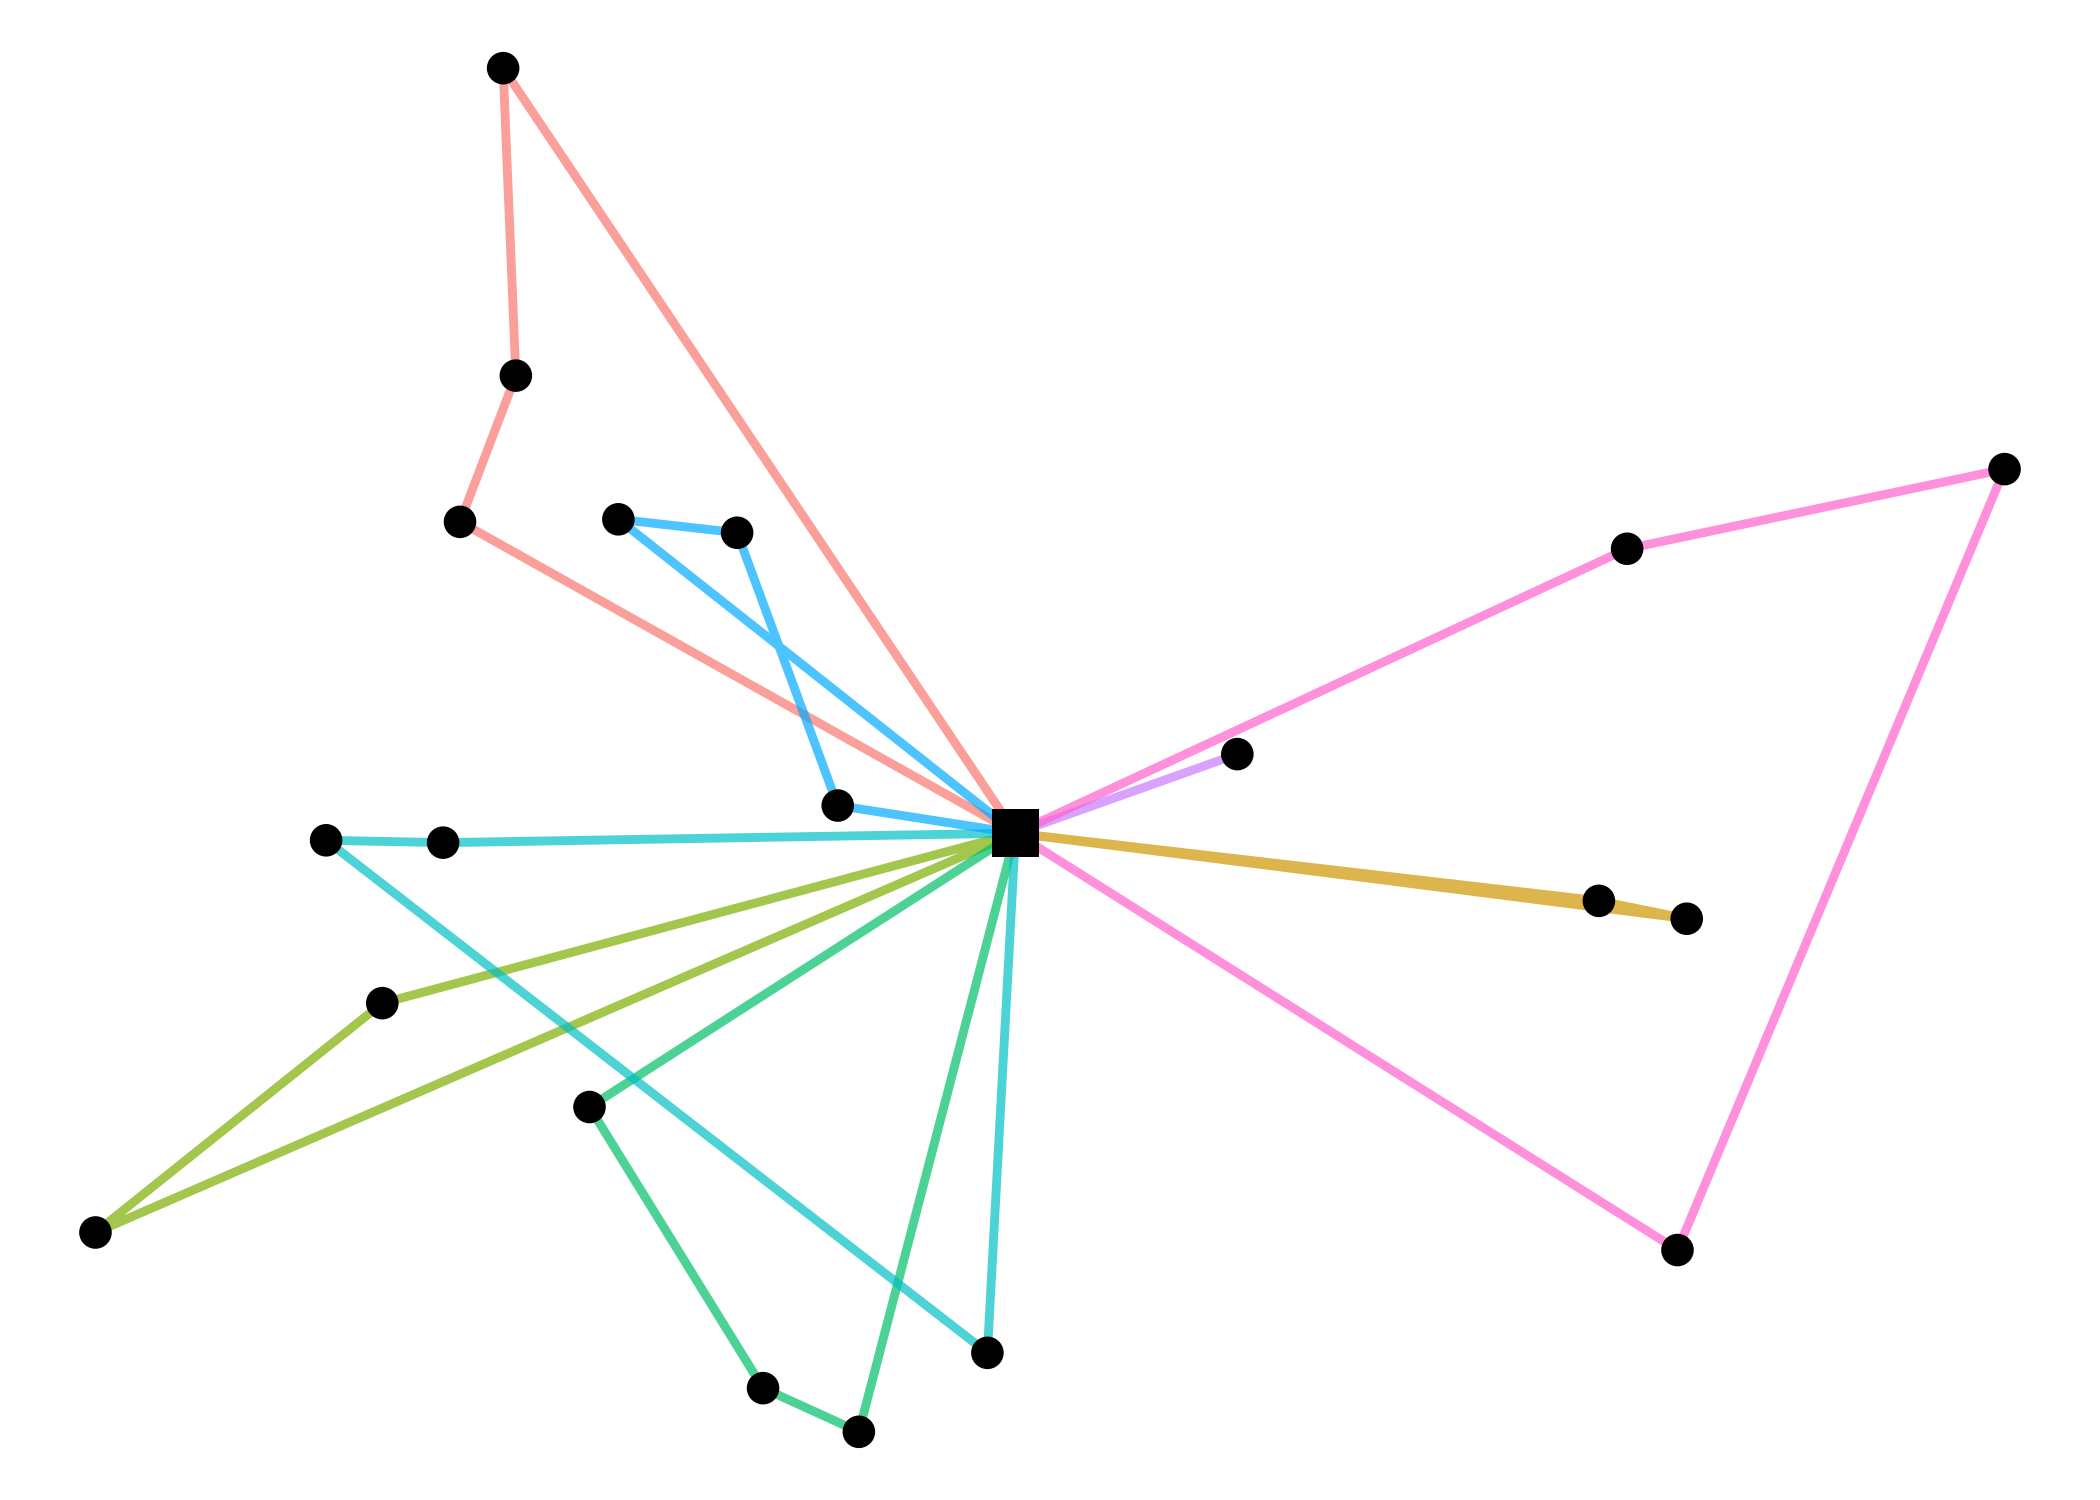
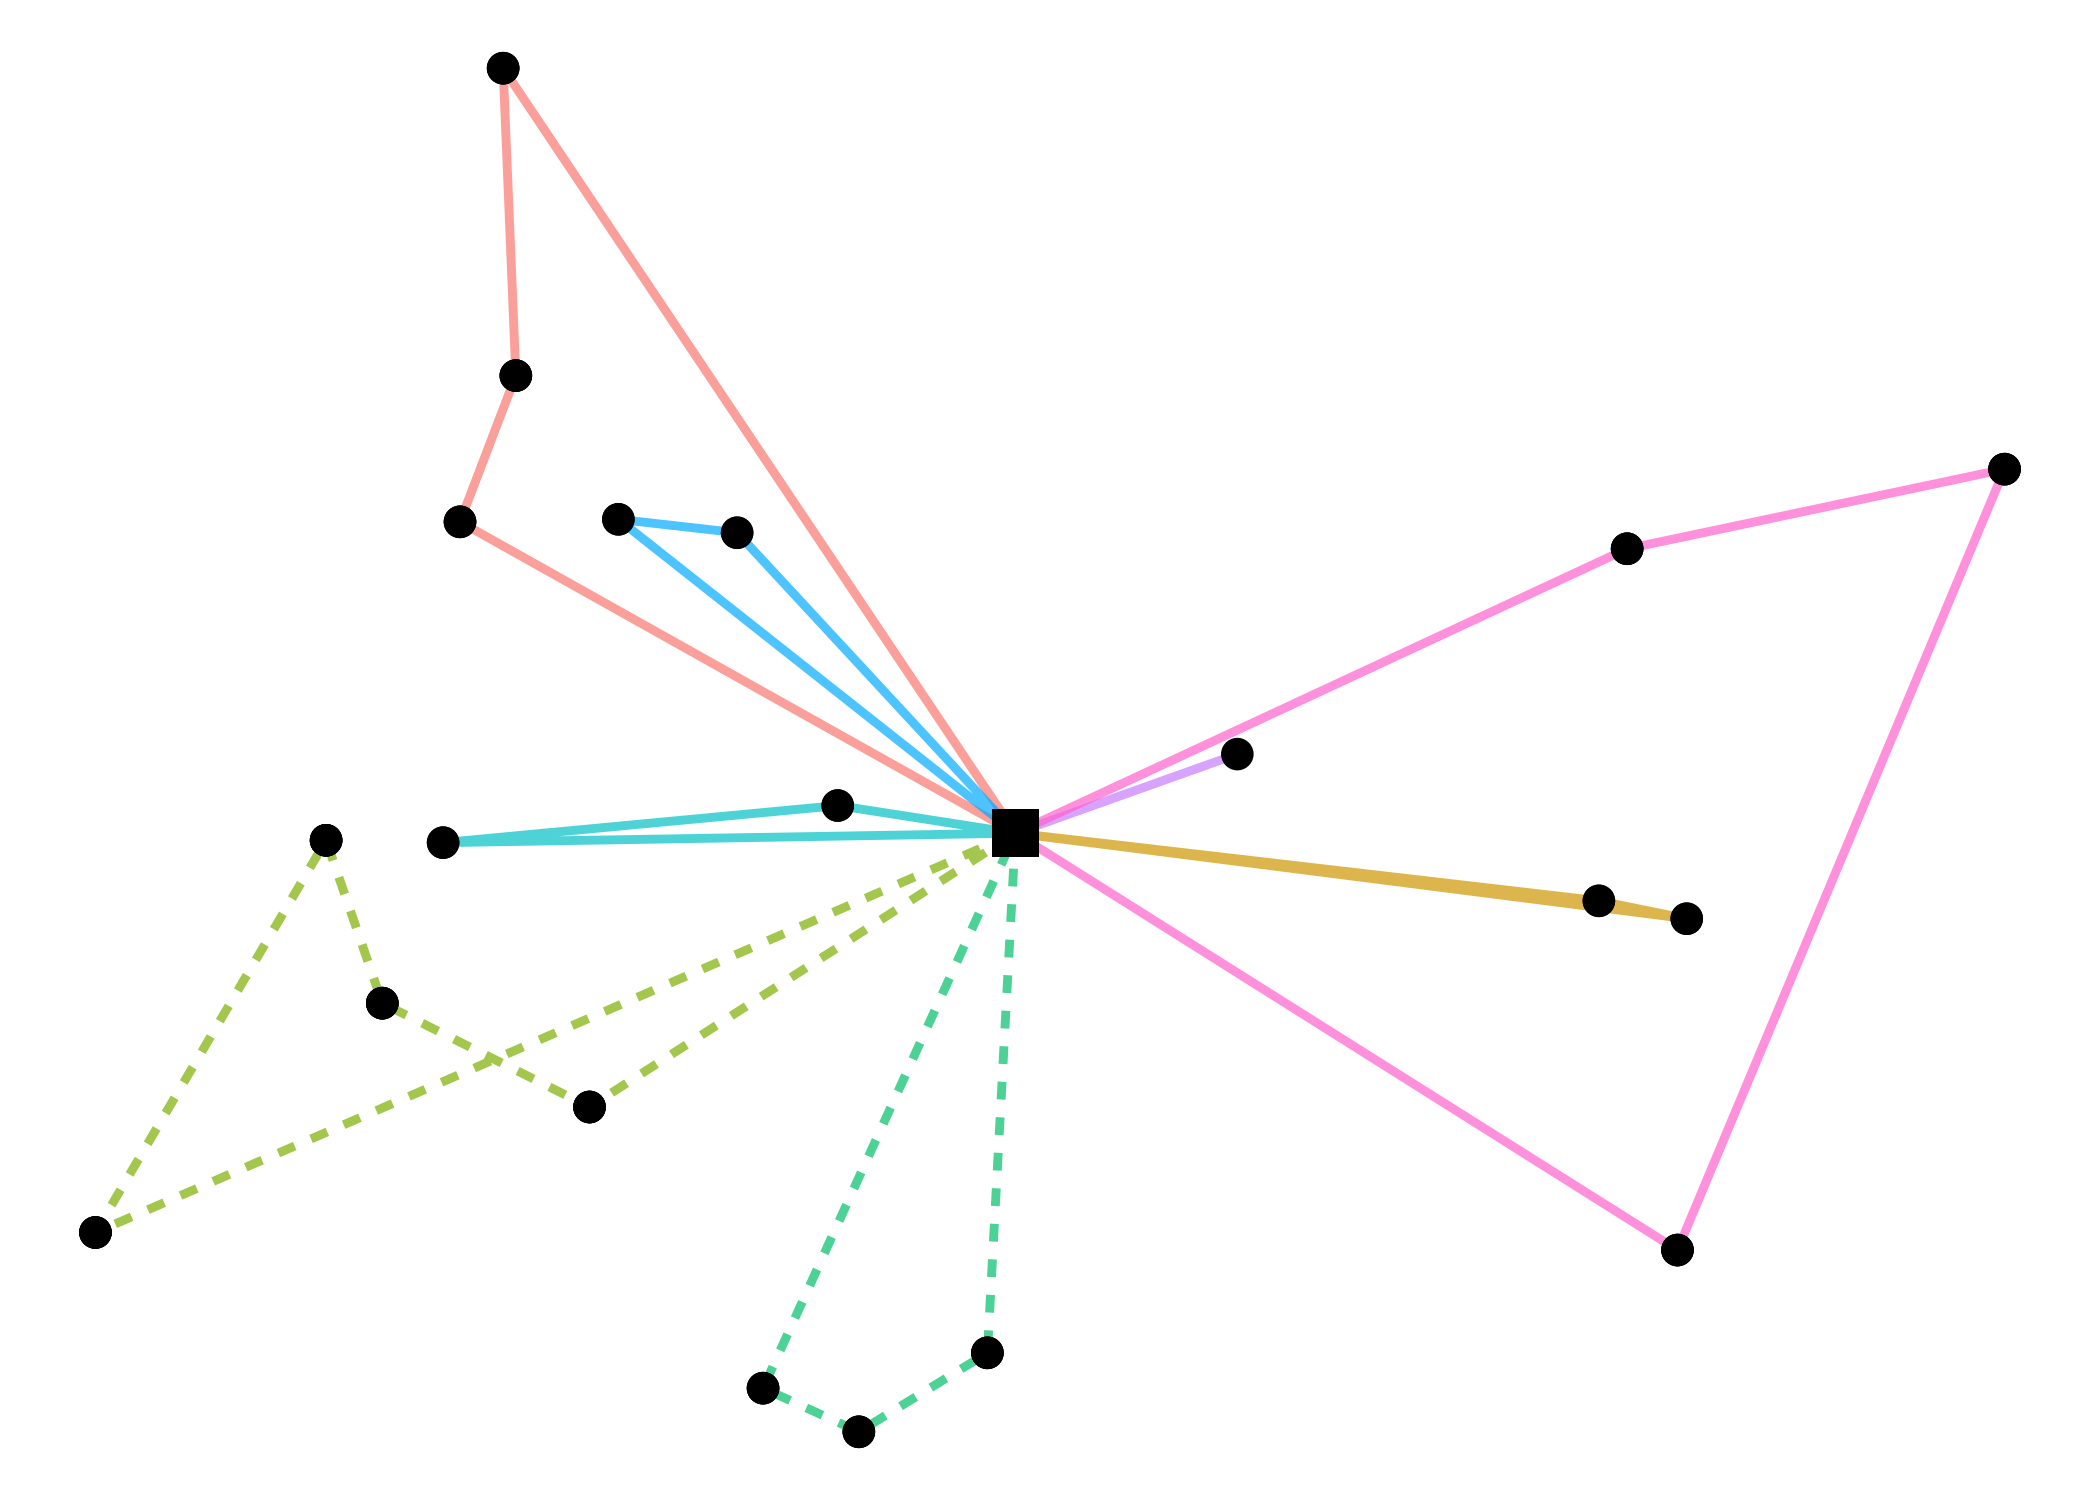
update README (example as well as benchmark)

diff --git a/README.md b/README.md
@@ -33,15 +33,17 @@ devtools::install_github("lschneiderbauer/heumilkr")
 ## Example
 
 The following example generates random demands at random locations,
-applies the Clarke-Wright algorithm to generate quasi-optimal vehicle
-runs and shows the resulting runs.
+defines two vehicle types, applies the Clarke-Wright algorithm to
+generate quasi-optimal vehicle runs, and shows the resulting runs.
 
 ``` r
 library(heumilkr)
-
 set.seed(42)
+
+# generating random demand
 demand <- runif(20, 5, 15)
 
+# generating random site positions
 pos <-
   data.frame(
     pos_x = c(0, runif(length(demand), -10, 10)),
@@ -52,7 +54,9 @@ res <-
   clarke_wright(
     demand,
     dist(pos),
-    data.frame(n = NA_integer_, caps = 33)
+    # We have an infinite number of vehicles with capacity 33 available,
+    # and two vehicles with capacity 44.
+    data.frame(n = c(NA_integer_, 2L), caps = c(33, 44))
   )
 
 print(res)
@@ -60,34 +64,35 @@ print(res)
 #> 1     0   0     0       0 31.75943 29.029139
 #> 2     1   1     0       0 25.78821 16.929475
 #> 3     2   0     2       0 31.75943 29.029139
-#> 4     3   2     1       0 27.70462 26.369313
+#> 4     3   2     3       1 41.60558 32.192404
 #> 5     4   1     1       0 25.78821 16.929475
-#> 6     5   3     1       0 29.31517 22.505121
-#> 7     6   4     2       0 30.76320 28.085112
-#> 8     7   4     1       0 30.76320 28.085112
-#> 9     8   3     2       0 29.31517 22.505121
-#> 10    9   4     0       0 30.76320 28.085112
-#> 11   10   5     1       0 32.37187 15.090835
-#> 12   11   5     2       0 32.37187 15.090835
+#> 6     5   3     2       1 34.12677 20.601801
+#> 7     6   3     0       1 34.12677 20.601801
+#> 8     7   2     2       1 41.60558 32.192404
+#> 9     8   3     1       1 34.12677 20.601801
+#> 10    9   4     1       0 22.65398 14.329082
+#> 11   10   5     0       0 21.76854 14.231704
+#> 12   11   5     1       0 21.76854 14.231704
 #> 13   12   6     0       0 14.34672  6.043174
-#> 14   13   3     0       0 29.31517 22.505121
+#> 14   13   2     0       1 41.60558 32.192404
 #> 15   14   7     1       0 30.58007 36.895550
-#> 16   15   2     0       0 27.70462 26.369313
+#> 16   15   2     1       1 41.60558 32.192404
 #> 17   16   7     2       0 30.58007 36.895550
 #> 18   17   7     0       0 30.58007 36.895550
 #> 19   18   0     1       0 31.75943 29.029139
-#> 20   19   5     0       0 32.37187 15.090835
+#> 20   19   4     0       0 22.65398 14.329082
 
 # returns the total cost / distance
 # (the quantity that is minimized by CVRP)
 print(milkr_cost(res))
-#> [1] 180.9477
+#> [1] 170.2523
 ```
 
 A plotting function (using [ggplot](https://ggplot2.tidyverse.org/)) for
 the result is built in. The individual runs are distinguished by color.
 The demanding site locations are marked with round circles while the
-(single) supplying site is depicted as a square.
+(single) supplying site is depicted as a square. The line types
+(solid/dashed/…) are associated to different vehicle types.
 
 ``` r
 plot(res)
@@ -103,7 +108,7 @@ CPU, using the R package [bench](https://bench.r-lib.org/).
 The following graph shows the run time behavior as the number of sites
 $n$ increase. The curve exhibits near-cubic behavior in $n$. For
 $n = 110$ the performance is still relatively reasonable with a run time
-of $\sim 10.9ms$.
+of $\sim 12.9ms$.
 
 <img src="man/figures/README-benchmark_runtime-1.png" width="100%" />
 

diff --git a/tests/testthat/_snaps/clarke_wright.md b/tests/testthat/_snaps/clarke_wright.md
@@ -7,21 +7,21 @@
       1     0   0     0       0 31.75943 29.029139
       2     1   1     0       0 25.78821 16.929475
       3     2   0     2       0 31.75943 29.029139
-      4     3   2     1       0 27.70462 26.369313
+      4     3   2     3       1 41.60558 32.192404
       5     4   1     1       0 25.78821 16.929475
-      6     5   3     1       0 29.31517 22.505121
-      7     6   4     2       0 30.76320 28.085112
-      8     7   4     1       0 30.76320 28.085112
-      9     8   3     2       0 29.31517 22.505121
-      10    9   4     0       0 30.76320 28.085112
-      11   10   5     1       0 32.37187 15.090835
-      12   11   5     2       0 32.37187 15.090835
+      6     5   3     2       1 34.12677 20.601801
+      7     6   3     0       1 34.12677 20.601801
+      8     7   2     2       1 41.60558 32.192404
+      9     8   3     1       1 34.12677 20.601801
+      10    9   4     1       0 22.65398 14.329082
+      11   10   5     0       0 21.76854 14.231704
+      12   11   5     1       0 21.76854 14.231704
       13   12   6     0       0 14.34672  6.043174
-      14   13   3     0       0 29.31517 22.505121
+      14   13   2     0       1 41.60558 32.192404
       15   14   7     1       0 30.58007 36.895550
-      16   15   2     0       0 27.70462 26.369313
+      16   15   2     1       1 41.60558 32.192404
       17   16   7     2       0 30.58007 36.895550
       18   17   7     0       0 30.58007 36.895550
       19   18   0     1       0 31.75943 29.029139
-      20   19   5     0       0 32.37187 15.090835
+      20   19   4     0       0 22.65398 14.329082
 
